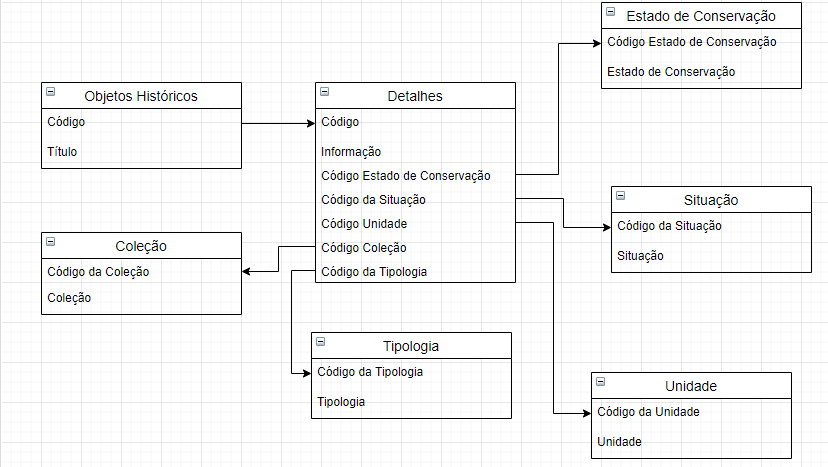
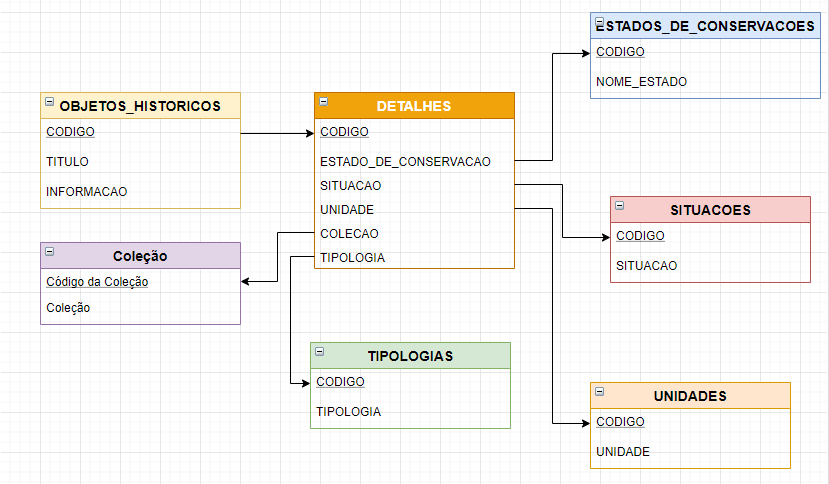
Atualizando o modelo de ER

Changed region(s): [[0.0302, 0.0, 1.0, 1.0]]

diff --git a/src/script.js b/src/script.js
@@ -128,7 +128,7 @@ const detalhes = dataInJSON.map(obj => {
 });
 
 
-insert_into_BD = detalhes.reduce(function(acumulador, valorAtual, index) {
+insert_into_BD = detalhes.reduce(function(acumulador, valorAtual) {
   return (
     acumulador + 
       `INSERT INTO DETALHES ( CODIGO, ESTADO_DE_CONSERVACAO, SITUACAO, UNIDADE, COLECAO, TIPOLOGIA ) 
